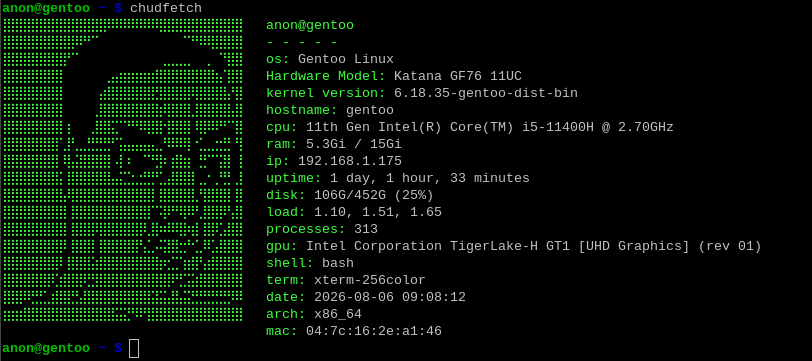
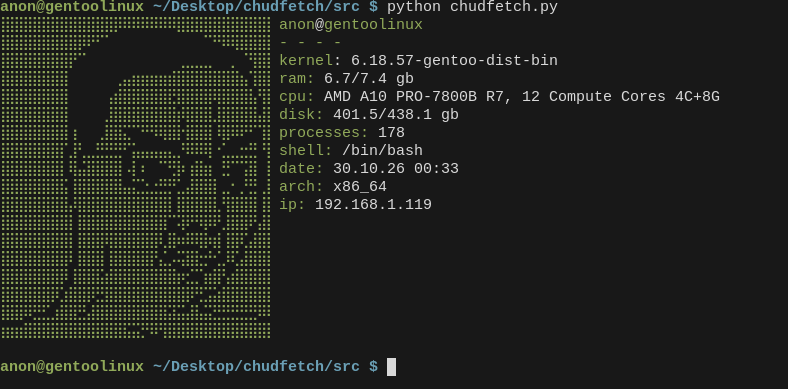
code is done, rewrite readme

Changed region(s): [[0.0, 0.0, 0.9442, 1.0]]

diff --git a/src/chudfetch.py b/src/chudfetch.py
@@ -1,3 +1,4 @@
+#!/usr/bin/env python3
 import psutil
 import os 
 import platform
@@ -5,7 +6,6 @@ import socket
 import subprocess
 import shutil
 import getpass
-import socket
 from datetime import datetime
 
 # hell yea i rewrite this shit in python

diff --git a/README.md b/README.md
@@ -1,10 +1,67 @@
 # chudfetch
-chudfetch is a CLI util like fastfetch but cooler
 ![chudfetch](images/chudfetch.png)
+
+## requirements
+
+- **linux-based operating system**
+- **python 3.6+**
+- **psutil**
+- **utf-8 terminal**
+- **git**
+
+runtime data sources:
+
+| field | source |
+|---|---|
+| user | `getpass.getuser()` |
+| hostname | `platform.node()` |
+| kernel | `platform.release()` |
+| cpu | `platform.processor()` |
+| ram | `psutil.virtual_memory()` |
+| disk | `shutil.disk_usage("/")` |
+| processes | `len(psutil.pids())` |
+| shell | `$SHELL` |
+| arch | `platform.machine()` |
+| ip | UDP socket to `8.8.8.8:80` |
+| date | `datetime.now()` |
 
 ## installation
 
- IN DEV NOW, REWRITE FROM CPP TO PYTHON, NOT A VAILABLE PROJECT YET
+### 1. get the code
+
+```bash
+git clone https://github.com/Efesint/chudfetch.git
+cd chudfetch
+```
+
+### 2. install psutil
+
+```bash
+# debian
+sudo apt install python3-psutil
+
+# arch / manjaro
+sudo pacman -S python-psutil
+```
+
+or with pip:
+
+```bash
+python3 -m pip install --user psutil
+```
+
+### 3. install the script into `~/.local/bin`
+
+```bash
+mkdir -p ~/.local/bin
+install -m 755 src/chudfetch.py ~/.local/bin/chudfetch
+```
+
+### 4. run it
+
+```bash
+chudfetch
+```
 
 # DISCLAIMER / TERMS OF USE
 
